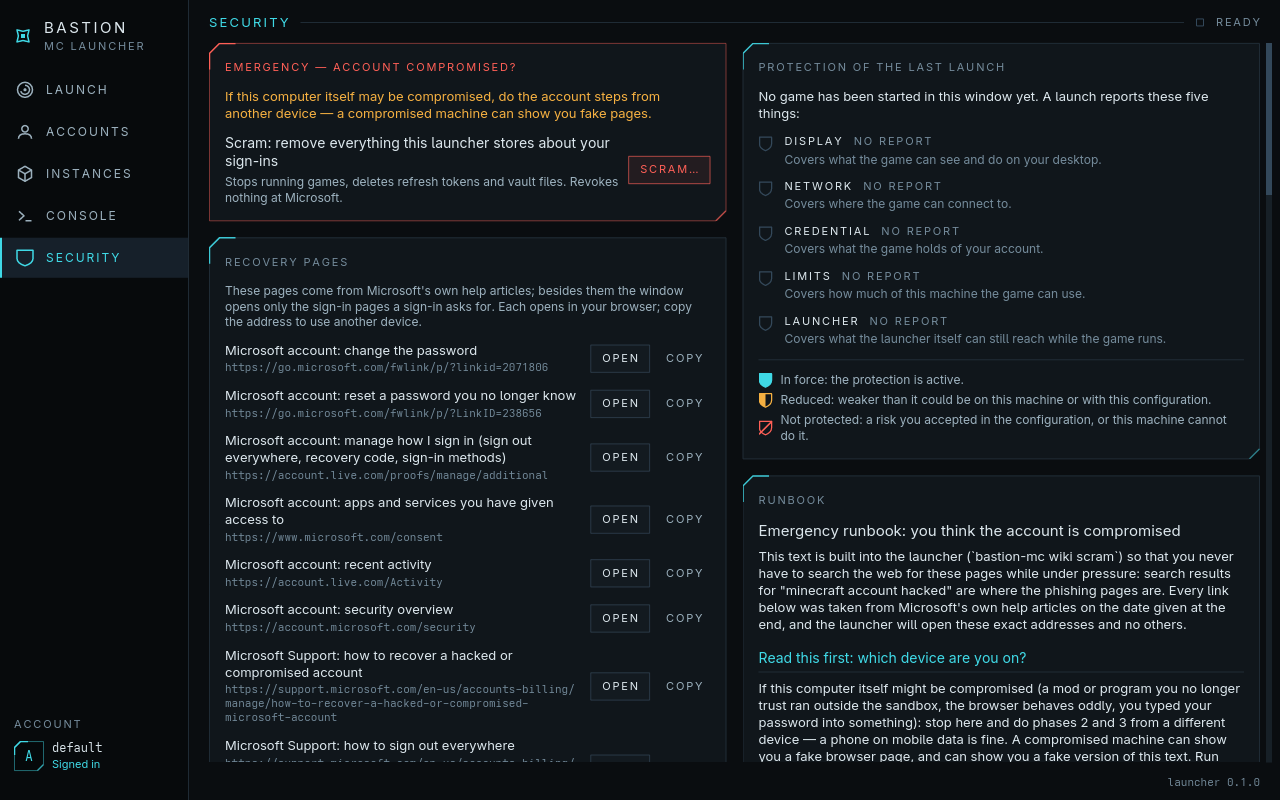
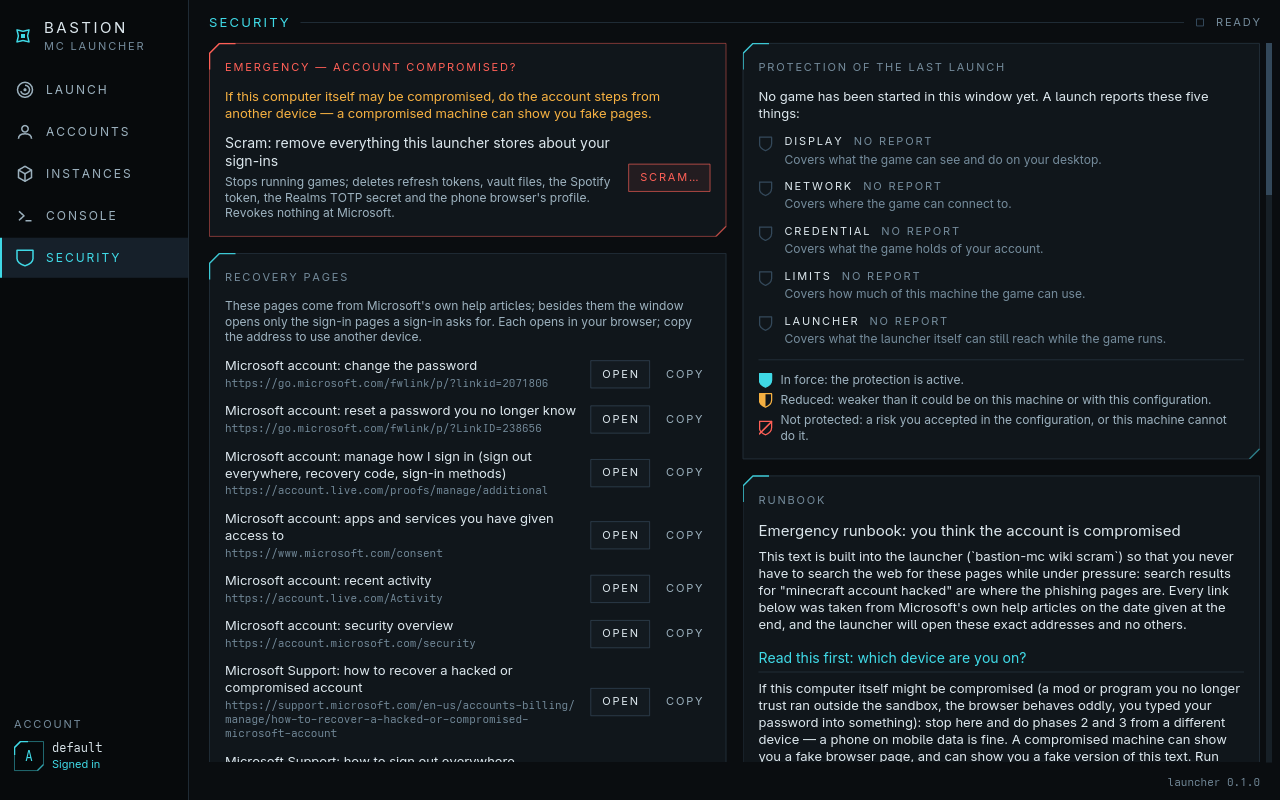
docs and front end: what the website review found (Realms brokered only with the phone; burner sessions record no clips; DNS is UDP too; alsa's /dev/snd in D4 and the drawing; the front end holds no token; scram's full reach on the security page); the security screenshot and its alt text follow

diff --git a/site/src/pages/security.html b/site/src/pages/security.html
@@ -649,7 +649,7 @@ nav: security
 {{REQUIRE docs/THREAT_MODEL.md "unless the server denies it.) Kernel and GPU-driver vulnerabilities reachable through allowed syscalls/ioctls."}}
 {{REQUIRE docs/THREAT_MODEL.md "syscalls/ioctls. Denial of service, partly: memory, swap and the number of tasks are limited by a systemd scope (the game is killed inside its own group; the limits are read back from the kernel once the game runs, and sandbox.cgroup = \"require\" stops a launch whose limits are not in force), and CPU time can be (cpu_quota_percent). A hostile mod can still fill saves/ and the scratch directory up to the free space of those file systems, and use all CPUs unless a quota is set."}}
 {{REQUIRE docs/THREAT_MODEL.md "The companion channel, the phone and its services, and the voice relay have bounds of their own (J19, H1, H8, H15, H16, J20). The phone's helpers have resource limits of their own where the game's are in use (the browser's read back from the kernel, the clip recorder's only asked for). Realms and UDP: Realms joins are refused unless [realms] approve is set (it is \"off\" by default); then Realms is brokered (J21) and every join needs an approval given outside the game — a code shown by the launcher, or your authenticator's, typed into the phone (J22); a launch without a phone refuses Realms approvals up front."}}
-{{REQUIRE docs/THREAT_MODEL.md "None of it was tried against the real Realms service, and a Realm with a resource pack probably fails to join (the pack's address is not reachable from the sandbox). UDP exists only as relayed datagrams to the UDP ports that a server rule names (voice chat, J20) — which gives item 8 a datagram form —; LAN discovery and everything else over UDP does not exist in the sandbox. Covert channels to an allowlisted server. Whatever the game may send to a server you allowlisted can carry data out; the relay sees an encrypted stream and cannot tell."}}
+{{REQUIRE docs/THREAT_MODEL.md "None of it was tried against the real Realms service, and a Realm with a resource pack probably fails to join (the pack's address is not reachable from the sandbox). Besides the questions to the launcher's own DNS responder (J10), UDP exists only as relayed datagrams to the UDP ports that a server rule names (voice chat, J20) — which gives item 8 a datagram form —; LAN discovery and everything else over UDP does not exist in the sandbox. Covert channels to an allowlisted server. Whatever the game may send to a server you allowlisted can carry data out; the relay sees an encrypted stream and cannot tell."}}
 {{REQUIRE docs/THREAT_MODEL.md "(Landlock ABI 10) UDP only to the launcher's DNS port"}}
 {{REQUIRE docs/THREAT_MODEL.md "and cannot tell. Hardware fingerprinting. Host name, machine id and network interfaces are synthetic or absent, but the GPU's renderer string, the CPU model in /proc/cpuinfo and the amount of memory are the real ones."}}
 {{REQUIRE docs/THREAT_MODEL.md "are the real ones. The account at Microsoft. Nothing here revokes a session or secures the Microsoft account; §4.6 is about noticing and reacting. The companion mod is not a defence."}}

diff --git a/site/src/pages/index.html b/site/src/pages/index.html
@@ -272,7 +272,7 @@ description: bastion-mc is a pre-release, unofficial Minecraft launcher for Arch
 <figcaption>Accounts: who is signed in under which label, and where each refresh token rests.</figcaption>
 </figure>
 <figure class="shot">
-{{SHOT security "The security page. An emergency panel warns to do the account steps from another device if this computer may be compromised, and offers Scram: stops running games, deletes refresh tokens and vault files, revokes nothing at Microsoft. Below it the recovery pages, each with its address and with Open and Copy buttons, under the line: besides them the window opens only the sign-in pages a sign-in asks for. Beside it the protection readout of the last launch, with no report yet for any of the five, and the start of the runbook."}}
+{{SHOT security "The security page. An emergency panel warns to do the account steps from another device if this computer may be compromised, and offers Scram: stops running games; deletes refresh tokens, vault files, the Spotify token, the Realms TOTP secret and the phone browser's profile; revokes nothing at Microsoft. Below it the recovery pages, each with its address and with Open and Copy buttons, under the line: besides them the window opens only the sign-in pages a sign-in asks for. Beside it the protection readout of the last launch, with no report yet for any of the five, and the start of the runbook."}}
 <figcaption>The security page: the warning to use another device comes first, then scram, then the recovery pages, the only addresses its emergency panel opens. For signing in, the window also opens links to four Microsoft sign-in hosts.</figcaption>
 {{REQUIRE docs/THREAT_MODEL.md "compared for equality — no host or prefix matching"}}
 {{REQUIRE docs/THREAT_MODEL.md "\"Open link\" exists only for https:// links to four Microsoft sign-in hosts"}}

diff --git a/gui/src/view/security.rs b/gui/src/view/security.rs
@@ -153,7 +153,7 @@ fn scram_control(app: &App) -> Element<'_, Message> {
             column![
                 kit::body("Scram: remove everything this launcher stores about your sign-ins"),
                 kit::small(
-                    "Stops running games, deletes refresh tokens and vault files. Revokes nothing at Microsoft."
+                    "Stops running games; deletes refresh tokens, vault files, the Spotify token, the Realms TOTP secret and the phone browser's profile. Revokes nothing at Microsoft."
                 ),
             ]
             .spacing(3)

diff --git a/docs/THREAT_MODEL.md b/docs/THREAT_MODEL.md
@@ -74,9 +74,10 @@ grant, your session on a site) whatever it likes.
  │  ro: mods/ resourcepacks/ shaderpacks/ (verified files, sealed tmpfs)      │
  │  ro: /bastion/companion (the launcher's companion mod, Fabric only)        │
  │  holes: 1 display socket (the game's own: security context or nested       │
- │  compositor), 1 audio socket, /dev/dri (+ its sysfs dir); Fabric           │
- │  profiles: 1 socket to the launcher (the companion channel: the mod's      │
- │  reports and the phone's commands in, the phone's state and pictures out)  │
+ │  compositor), 1 audio socket (or /dev/snd with audio = "alsa"), /dev/dri   │
+ │  (+ its sysfs dir); Fabric profiles: 1 socket to the launcher (the         │
+ │  companion channel: the mod's reports and the phone's commands in, the     │
+ │  phone's state and pictures out)                                           │
  │  the whole sandbox sits in a systemd scope: memory, no swap, task limit    │
  └────────────────────────────────────────────────────────────────────────────┘
 ```
@@ -152,7 +153,7 @@ shown to you (J22).
 | D1 | **X11**: keylog every X client, inject input (XTEST) into a terminal, screenshot, read and replace the clipboard | **Nested compositor.** With gamescope installed the game is not a client of the session's X server at all: gamescope runs in a sandbox of its own (same namespaces, Landlock, seccomp, its own resource scope; no home, no network) holding the session's display, and the game gets only the inner display's socket. Its root window is gamescope's; the session's windows, properties and cookie do not exist for it. gamescope would bridge CLIPBOARD and PRIMARY both ways and has no switch for it; a small preloaded library (`native/noclip.c`, built and embedded with the launcher) makes the four SDL calls that carry the bridge do nothing. A preload can fail without a sound, so the library reports from inside the compositor and the launcher claims the cut only for the report "active"; without it `auto` says that the clipboard is not known to be cut (shield: partial) and `require` stops the launch. The game's `DISPLAY` is the socket's *path*, so libxcb never tries an abstract socket and Landlock's abstract-socket scoping stays on in every network mode. Without gamescope the launch is refused unless `sandbox.allow_x11 = true` hands over the session's display (one socket file, one cookie). | `nested::the_game_talks_to_a_display_server_of_its_own` (both network namespaces), `nested::no_selection_crosses_the_nested_compositor`, `nested::a_compositor_without_the_cut_off_is_noticed_and_not_called_cut` (the control run: without the library CLIPBOARD crossed both ways, the launcher reported "was not loaded" and `require` refused), `nested::a_compositor_that_goes_away_is_noticed`, `nested_game` (real Minecraft 26.3), `sandbox::x11_client_connects_in_each_network_mode` | A bug in gamescope or Xwayland reachable from the game yields the compositor's sandbox, i.e. the session's display — the thing that used to be handed over. The report "active" establishes that the bridge's calls land in the cut-off, not that a given build of gamescope has no other way of moving a selection: that is a property of the compositor, tested for gamescope 3.17 as packaged by Arch and for nothing else. **With `allow_x11` and no gamescope this is a sandbox escape path**, as before. Playability inside gamescope (pointer capture, full screen) is not assessed. |
 | D2 | **Wayland**: privileged protocols on wlroots compositors (screencopy, virtual keyboard and pointer, data control = clipboard managers, layer shell) | **`wp_security_context_v1`.** The game does not get the session's socket but one created for it and registered with the compositor as a sandbox (engine `org.bastion-mc`); a compositor that implements the protocol is expected to withhold the interfaces meant for trusted desktop components from it — the protocol says "should", so the launcher does not assume it: it connects to the game's socket itself and lists what is offered there. If one of 16 known privileged interfaces is on that list (or the list cannot be had), `auto` says so and the shield is not shown as on; `require` refuses. The socket's name is removed once the sandbox has it. `wayland_security_context = "require"` also refuses compositors without the protocol; `auto` says so and falls back. The setup conversation with the compositor is bounded in time, events and bytes. | `sandbox::wayland::tests::*` (stand-in compositors, incl. one that accepts the context and filters nothing, one that never stops sending, one that never accepts), `wayland::*` against a real headless sway (37 interfaces offered on the game's socket, none of the known privileged ones; 20 withheld), real Minecraft started through it (§7 E16), `robustness::wayland_event_reader`; `doctor` shows the same listing | The ordinary clipboard while the game has focus (that is Wayland). A privileged interface that is not on the launcher's list — a compositor's private protocol — is not noticed; nor is what a compositor does with requests on the interfaces it does offer. Compositors without the protocol — Mutter (GNOME), Weston, Wayfire, per the protocol registry's support table on 2026-11-13; KWin, Sway, Hyprland, niri, COSMIC, labwc and river are listed as implementing it — get the session socket, with whatever that compositor offers every client (GNOME offers ordinary clients no capture or injection interfaces, but that is GNOME's policy, not this launcher's enforcement). Tested against sway only, headless; not on a real desktop session. |
 | D3 | **Audio**: record the microphone, capture other apps' audio; make the sound server load code | Only the PulseAudio-protocol socket (never the native PipeWire socket, which also offers cameras/screen capture). That protocol has a "load module" command which PulseAudio *and* pipewire-pulse honour by default; with it a client can make the server — outside the sandbox — load a plugin or touch files it names. So before the socket is exposed the launcher asks the server itself to load a module that does not exist: only a clean "access denied" lets the launch continue (`allow_pulse_module_loading = true` overrides, `audio = "none"` removes the socket). `audio = "alsa"` binds the raw sound devices (`/dev/snd`) instead: no server and no module-loading check, playback and capture of every sound card. | `sandbox::pulse::tests::*` (stand-in servers: refused, accepted, garbage, hang-up); real PipeWire in both settings (§7 E10) | Recording is possible with `audio = "pulse"`; exfiltrating it still needs J10. The answer is checked at launch, not continuously. Where a server rule names a voice port, J10's exits include that port (J20): recorded sound can go to that server as datagrams, which is what voice chat does. With `audio = "alsa"` the game reads every microphone directly; that setting is for machines where that is acceptable. |
-| D4 | **GPU**: driver ioctl bugs | `/dev/dri` only (+ NVIDIA nodes if present), device-ioctl right limited to those nodes, sysfs limited to the GPU's own device directory. | No test of its own; real launches render through it (§7 E7) | Kernel GPU drivers are large; this surface cannot be filtered generically. |
+| D4 | **GPU**: driver ioctl bugs | `/dev/dri` only (+ NVIDIA nodes if present; + `/dev/snd` with `audio = "alsa"`, D3), device-ioctl right limited to those nodes, sysfs limited to the GPU's own device directory. | No test of its own; real launches render through it (§7 E7) | Kernel GPU drivers are large; this surface cannot be filtered generically. |
 
 ### 4.4 Network and supply chain (adversaries N, C)
 
@@ -295,8 +296,8 @@ Realms approvals up front (J21–J24).
    into the phone (J22); a launch without a phone refuses Realms approvals up front. None of
    it was tried against the real Realms service, and a Realm with a
    resource pack probably fails to join (the pack's address is not reachable from the
-   sandbox). UDP exists only as relayed datagrams to the UDP ports that a server rule
-   names (voice chat, J20) — which gives item 8 a datagram form —; LAN discovery and
+   sandbox). Besides the questions to the launcher's own DNS responder (J10), UDP exists
+   only as relayed datagrams to the UDP ports that a server rule names (voice chat, J20) — which gives item 8 a datagram form —; LAN discovery and
    everything else over UDP does not exist in the sandbox.
 8. **Covert channels to an allowlisted server.** Whatever the game may send to a server you
    allowlisted can carry data out; the relay sees an encrypted stream and cannot tell.

diff --git a/README.md b/README.md
@@ -210,8 +210,8 @@ behind each claim, are in [`docs/THREAT_MODEL.md`](docs/THREAT_MODEL.md).
 
 bubblewrap namespaces → Landlock → seccomp allowlist, inside a systemd scope with memory and
 task limits; an empty root filesystem, a synthetic `/etc`, no route out of the network
-namespace except through the launcher's allowlisting relay. The holes are one audio socket,
-the GPU, and a display of the game's own: on Wayland a socket the compositor knows to be
+namespace except through the launcher's allowlisting relay. The holes are one audio socket
+(raw `/dev/snd` instead with `audio = "alsa"`), the GPU, and a display of the game's own: on Wayland a socket the compositor knows to be
 sandboxed, on X11 a nested compositor. When the launcher adds its companion mod to a Fabric
 profile, the sandbox also gets one socket to the launcher. The mod's reports arrive there and
 are only logged; the phone's commands arrive there too, and the launcher does for them only
@@ -563,7 +563,7 @@ except the Realms prompt above. It offers none of the fourth round's commands
 It is a separate program on purpose, not a mode of the launcher:
 
 ```text
- bastion-mc-gui  (no secrets: window, fonts, GPU)        bastion-mc --events <command>
+ bastion-mc-gui  (no tokens: window, fonts, GPU)         bastion-mc --events <command>
  ┌───────────────────────────────────────────┐           (hardened, holds the tokens)
  │ view   state ─▶ widgets, pure             │
  │ app    update(): the only place state     │  spawn    one process per command:
@@ -855,12 +855,12 @@ The phone shows only the apps the launcher set up for this launch:
 | Realms | every launch but a burner session; it can approve a join only with `[realms] approve` set | a signed-in account, the filtered network with the credential broker |
 | Settings | every launch but a burner session | — |
 
-Spotify, clips and the browser are started only for a launch that adds the companion mod:
-without a phone there is nothing to use them with. Settings sync and the brokering of Realms
-work without it — in a vanilla instance too —, but approving a Realms join needs the phone. A
-`--burner` session starts no browser, takes no part in settings sync or Realms, and its
-Spotify has neither the Web API nor album art; clips are recorded as in any other launch,
-and a clip saved there stays (it is the launcher's file, not the game's).
+Spotify, clips and the browser are started only for a launch whose companion has its phone
+on: without a phone there is nothing to use them with. Settings sync works without it — in a
+vanilla instance too. Realms is brokered only in a launch with the phone, because a join is
+approved there; in any other launch Realms joins are refused at once, and the launch log
+says why. A `--burner` session starts no browser, records no clips, takes no part in settings
+sync or Realms, and its Spotify has neither the Web API nor album art.
 
 ```toml
 [companion]
@@ -1112,11 +1112,11 @@ approve = "code"   # or "totp"; "off" (the default) refuses Realms joins, as bef
   is not accepted again, in a later launch either; after 10 wrong codes in a session, Realms
   joins are refused until the next launch.
 * **What it needs.** A signed-in account (not demo mode), the filtered network with the
-  credential broker, and, to approve a join, the phone: a Fabric instance with the companion
-  mod. In an instance without the phone Realms is still brokered when `approve` is set — the
-  game sees your Realms list —, but nothing can approve a join: its prompt runs out and the
-  join is refused. If the launch cannot prepare the approvals (no TOTP secret stored, the
-  dialer does not start), it says so and Realms joins are refused for that session.
+  credential broker, and the phone to type the code into: a Fabric instance with the
+  companion mod and its phone. A launch without one — a vanilla instance, the companion not
+  added, `phone = false` — does not broker Realms: it says why, and its Realms joins are
+  refused at once. So does a launch that cannot prepare the approvals (no TOTP secret stored,
+  the dialer does not start).
 * **What stays possible for code in the game.** It can accept an invitation someone sent you,
   redeem an invite code it knows and agree to the Realms terms in your name, and it sees your
   Realms list. In `totp` mode a code is not bound to the prompt it is typed for: code that
